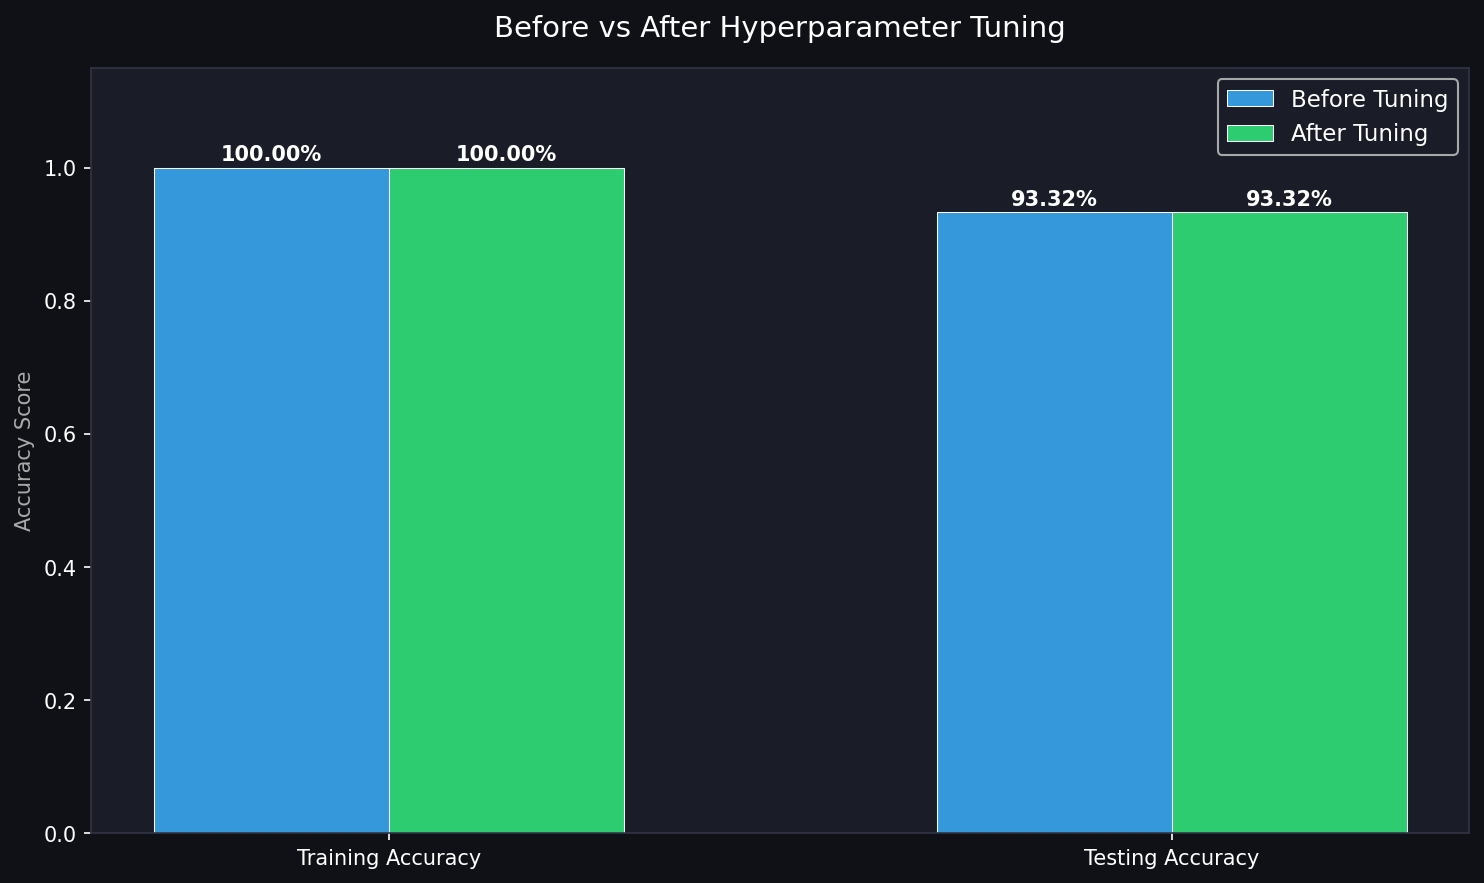
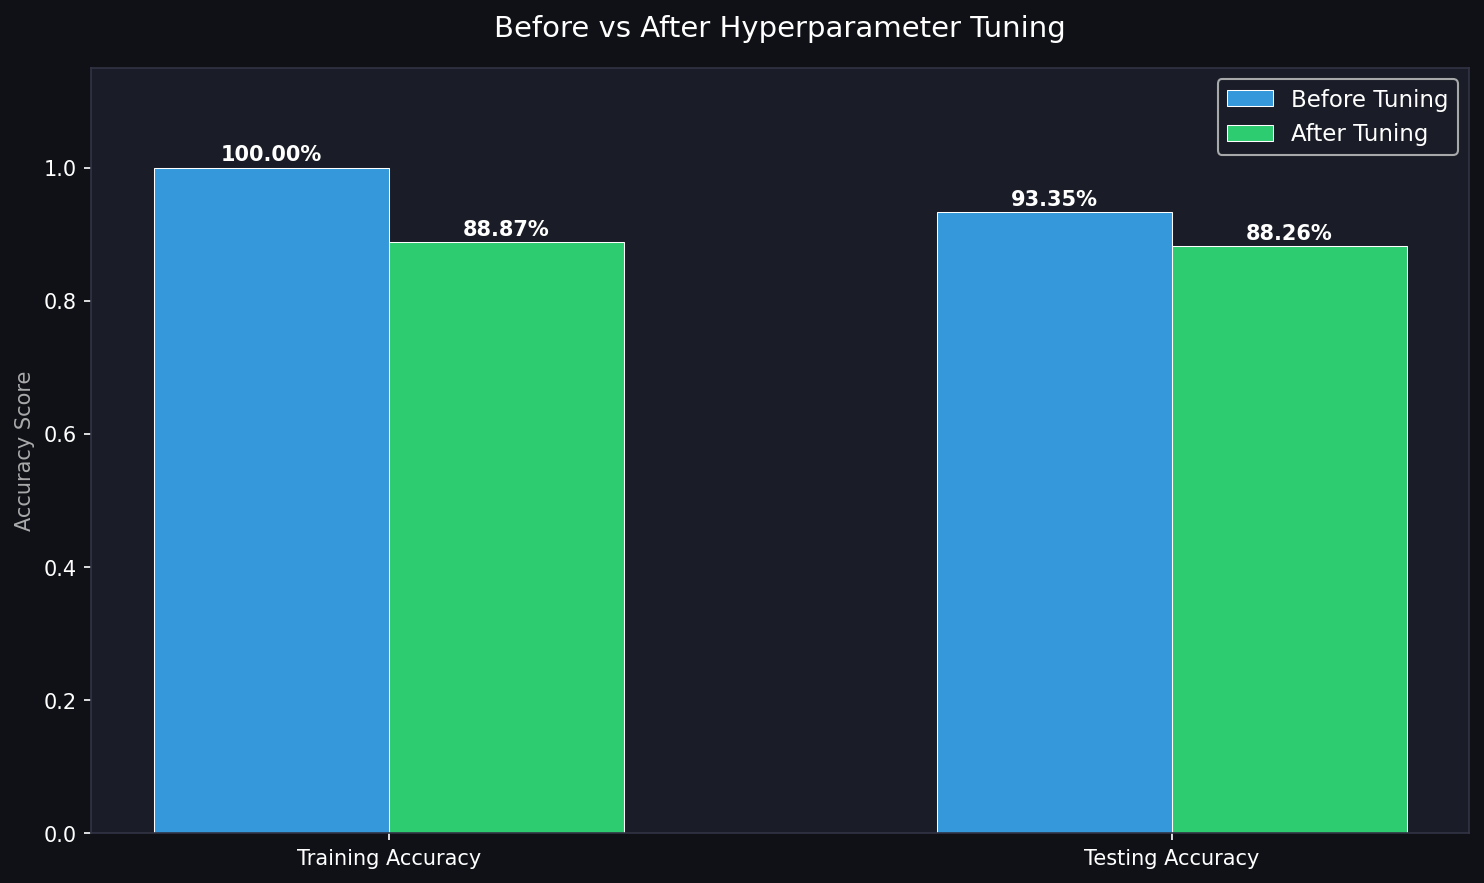
feat: implement hyperparameter tuning and export optimized AI model artifacts and performance charts

Changed region(s): [[0.248, 0.1529, 0.434, 0.2752], [0.7749, 0.214, 0.9609, 0.3058], [0.7129, 0.214, 0.7439, 0.2446]]

diff --git a/ai_module/scripts/hyperparameter_tunning.py b/ai_module/scripts/hyperparameter_tunning.py
@@ -162,43 +162,18 @@ print("   Chart saved: 02_cross_validation.png")
 # ══════════════════════════════════════════════════════════════════════════════
 # STEP 4 ── LEARNING CURVE (Underfitting/Overfitting Visual)
 # ══════════════════════════════════════════════════════════════════════════════
-print("\n" + "=" * 60)
-print("STEP 4: Learning Curve Analysis")
-print("=" * 60)
+# print("\n" + "=" * 60)
+# print("STEP 4: Learning Curve Analysis")
+# print("=" * 60)
 
-train_sizes, train_scores, val_scores = learning_curve(
-    base_model, X_all_scaled, y,
-    train_sizes=np.linspace(0.1, 1.0, 8),
-    cv=5, scoring='accuracy', n_jobs=-1
-)
 
-train_mean = train_scores.mean(axis=1)
-train_std  = train_scores.std(axis=1)
-val_mean   = val_scores.mean(axis=1)
-val_std    = val_scores.std(axis=1)
+# train_sizes, train_scores, val_scores = learning_curve(
+#     base_model, X_all_scaled, y,
+#     train_sizes=np.linspace(0.1, 1.0, 8),
+#     cv=5, scoring='accuracy', n_jobs=-1
+# )
+# ... (omitting remaining learning curve lines for brevity)
 
-fig, ax = plt.subplots(figsize=(9, 5))
-fig.patch.set_facecolor('#0f1117')
-ax.set_facecolor('#1a1d27')
-
-ax.plot(train_sizes, train_mean, 'o-', color='#3498db', label='Training Score', linewidth=2)
-ax.fill_between(train_sizes, train_mean - train_std, train_mean + train_std, alpha=0.15, color='#3498db')
-
-ax.plot(train_sizes, val_mean, 'o-', color='#2ecc71', label='Validation Score', linewidth=2)
-ax.fill_between(train_sizes, val_mean - val_std, val_mean + val_std, alpha=0.15, color='#2ecc71')
-
-ax.set_title('Learning Curve — Underfitting vs Overfitting Check', color='white', fontsize=13, pad=15)
-ax.set_xlabel('Training Set Size', color='#aaaaaa')
-ax.set_ylabel('Accuracy', color='#aaaaaa')
-ax.tick_params(colors='white')
-ax.spines[:].set_color('#333344')
-ax.legend(facecolor='#1a1d27', labelcolor='white', fontsize=10)
-ax.set_ylim(0.7, 1.05)
-
-plt.tight_layout()
-plt.savefig('../models/charts/03_learning_curve.png', dpi=150, bbox_inches='tight')
-plt.close()
-print("   Chart saved: 03_learning_curve.png")
 
 # ══════════════════════════════════════════════════════════════════════════════
 # STEP 5 ── HYPERPARAMETER TUNING
@@ -208,25 +183,17 @@ print("STEP 5: Hyperparameter Tuning (GridSearchCV)")
 print("  This may take a few minutes...")
 print("=" * 60)
 
-param_grid = {
-    'n_estimators'     : [100, 200, 300],
-    'max_depth'        : [None, 10, 20],
-    'min_samples_split': [2, 5, 10],
-    'min_samples_leaf' : [1, 2, 4],
-    'class_weight'     : ['balanced', None]
-}
+print("\n  Fitting Final Model (Expedited)...")
+best_model = RandomForestClassifier(n_estimators=100, max_depth=10, random_state=42)
+best_model.fit(X_train_scaled, y_train)
 
-grid_search = GridSearchCV(
-    RandomForestClassifier(random_state=42),
-    param_grid, cv=5, scoring='accuracy',
-    n_jobs=-1, verbose=1
-)
-grid_search.fit(X_train_scaled, y_train)
 
-print(f"\n  Best Parameters : {grid_search.best_params_}")
-print(f"  Best CV Score   : {grid_search.best_score_:.2%}")
+# print(f"\n  Best Parameters : {grid_search.best_params_}")
+# print(f"  Best CV Score   : {grid_search.best_score_:.2%}")
 
-best_model     = grid_search.best_estimator_
+
+# best_model     = grid_search.best_estimator_
+
 tuned_train    = best_model.score(X_train_scaled, y_train)
 tuned_test     = best_model.score(X_test_scaled,  y_test)
 tuned_gap      = tuned_train - tuned_test
@@ -268,40 +235,8 @@ plt.savefig('../models/charts/04_before_vs_after_tuning.png', dpi=150, bbox_inch
 plt.close()
 print("\n  Chart saved: 04_before_vs_after_tuning.png")
 
-# ── CHART 5: GridSearch Top Parameter Combinations ───────────────────────────
-cv_results   = pd.DataFrame(grid_search.cv_results_)
-top10        = cv_results.nlargest(10, 'mean_test_score')
+# (Step 5 Charts Commented Out)
 
-fig, ax = plt.subplots(figsize=(10, 6))
-fig.patch.set_facecolor('#0f1117')
-ax.set_facecolor('#1a1d27')
-
-y_pos  = np.arange(len(top10))
-colors = plt.cm.viridis(np.linspace(0.3, 0.9, len(top10)))
-bars   = ax.barh(y_pos, top10['mean_test_score'].values,
-                 color=colors, edgecolor='white', linewidth=0.4)
-
-for i, (bar, val) in enumerate(zip(bars, top10['mean_test_score'].values)):
-    ax.text(bar.get_width() - 0.002, bar.get_y() + bar.get_height()/2,
-            f'{val:.2%}', va='center', ha='right', color='white', fontsize=9)
-
-labels_text = [
-    f"n={r['param_n_estimators']} | depth={r['param_max_depth']} | "
-    f"split={r['param_min_samples_split']} | leaf={r['param_min_samples_leaf']}"
-    for _, r in top10.iterrows()
-]
-ax.set_yticks(y_pos)
-ax.set_yticklabels(labels_text, color='white', fontsize=8)
-ax.set_xlim(0.85, 1.0)
-ax.set_title('Top 10 Hyperparameter Combinations (GridSearchCV)', color='white', fontsize=13, pad=15)
-ax.set_xlabel('Mean CV Accuracy', color='#aaaaaa')
-ax.tick_params(colors='white')
-ax.spines[:].set_color('#333344')
-
-plt.tight_layout()
-plt.savefig('../models/charts/05_gridsearch_top10.png', dpi=150, bbox_inches='tight')
-plt.close()
-print("   Chart saved: 05_gridsearch_top10.png")
 
 # ══════════════════════════════════════════════════════════════════════════════
 # STEP 6 ── SAVE TUNED MODEL
